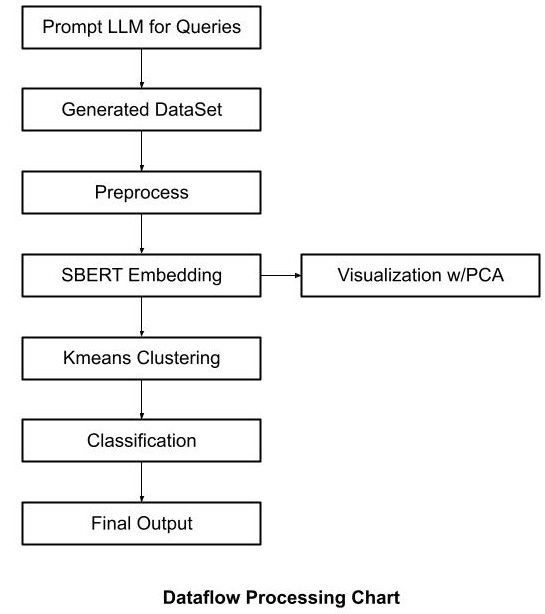
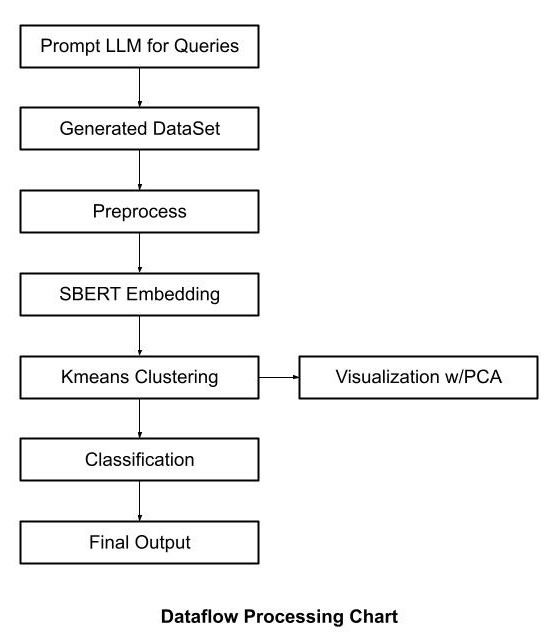
finalized blog

diff --git a/index.html b/index.html
@@ -30,22 +30,16 @@
         <div class="paragraph1">
             <h2>Introduction</h2>
             <p class="body1">
-               The purpose of the project is to take and classify several example queries belonging to different 
-               categories and group them by semantic similarity. The dataset of queries is generated by prompting Open AI 
-               for a list of questions grouped into several categories that various people are likely to ask an LLM for assistance 
-               or feedback with in matters of technology, travel, history, etc. The question categories are grouped together by vectors 
-               These questions are then represented as numerical vectors using a sentence embedding model, allowing us to analyze their semantic 
-               structure in high-dimensional space. By combining clustering and classification techniques, the system is able to organize queries 
-               meaningfully and assign appropriate category labels, even for previously unseen inputs.
-               
             </p>
-
+            This project aims to classify and group example queries by their semantic similarity across different categories. 
+            The dataset was created by prompting a large language model (LLM) to generate a variety of realistic, natural-language 
+            questions that users might ask about topics such as technology, travel, history, and more. Each query is tagged with a 
+            category label. These questions are then converted into high-dimensional numerical vectors using a sentence embedding model,
+            enabling analysis of their semantic relationships. By applying clustering and classification techniques to the embedded data, 
+            the system can organize queries into meaningful groups and accurately assign category labels - even for previously unseen inputs.
+            To achieve this, the system uses SBERT sentence embedding model to convert queries into vector form, applies k-means clustering to group 
+            semantically similar queries, and finally uses a multinomial logistic regression classifier to assign category labels to input queries.
             <p class = "body1">
-            The following diagram outlines the data flow of the project, beginning with query generation and ending with query classification. 
-               Each stage: embedding, clustering, and classification, builds on the previous to form a complete pipeline for semantic 
-               analysis of natural language questions. In the sections that follow each stage is explained in greater detail. This covers how the data is generated, 
-               how semantic embeddings are applied using SBERT, how clusters are formed to group similar queries, and how categories are predicted 
-               using a logistic regression classifier.
             </p>
             <img src="images/DataSciDataflow.jpg" alt="Dataflow Chart" class="image3">
         </div>
@@ -53,84 +47,87 @@
         <div class="paragraph1">
             <h2>Datasets</h2>
             <p class="body1">
-                To generate the main dataset used in the project, a custom prompt is sent to the Deepseek V3 model via the OpenRouter API. 
-                This prompt requests Deepseek to generate several hundred diverse, natural-language questions that a typical end user might 
-                ask a large language model. The questions are organized into generalized categories such as technology, travel, education, 
-                or history to simulate a realistic range of LLM use cases. The prompt also enforces a strict response format: each question 
-                must be returned as a JSON object with two keys—"Question" and "Category". This structure ensures consistency in downstream parsing and processing. 
+            To generate the main dataset used in the project, a custom prompt is sent to the Deepseek V3 model via the OpenRouter API. 
+            This prompt requests Deepseek to generate several hundred diverse, natural-language questions that a typical end user might 
+            ask a large language model. The questions are organized into generalized categories such as technology, travel, education, or
+            history to simulate a realistic range of LLM use cases. The prompt also enforces a strict response format: each question must 
+            be returned as a JSON object with two keys—"Question" and "Category". This structure ensures consistency in downstream parsing and processing.
             </p>
             <p class="body1">
-                The dataset generation is done in a separate code file before the embedding and clustering step. A prompt is loaded from a text 
-                file and modified to include the desired number of queries. Deepseek is prompted to return the questions in a Json format with 
-                both the question and category. The generate_queries() function then uses the Deepseek model to synthesize the data. Once a 
-                successful response is returned, the user is prompted to confirm it for correctness before the dataset is saved. 
-
+            The dataset generation is done in a separate code file before the embedding and clustering step. A prompt is loaded from a text file and 
+            modified to include the desired number of queries. Deepseek is prompted to return the questions in a JSON format with both the question and 
+            category. The generate_queries() function then uses the Deepseek model to synthesize the data. Once a successful response is returned, the user 
+            is prompted to confirm it for correctness before the dataset is saved.
             </p>
         </div>
 
         <div class="paragraph1">
             <h2>Embedding</h2>
             <p class="body1">
-                Embedding the queries is a necessary step in the processing of natural language data to assign numerical values to semantic material. 
-                These embeddings can then be used to further process, modify, or classify the natural language data. For the purposes of this project, 
-                we have chosen to use the Siamese Bidirectional Encoder Representations from Transformers (SBERT) model. This model is specifically 
-                designed to encode natural language data in a way which preserves semantic context/meaning within the sentence. SBERT was chosen as it 
-                is specialized for providing highly accurate semantic similarity scores when compared to competing models (e.g., BERT). Embedding the 
-                natural language data into matrices using SBERT preprocesses and prepares the data for the clustering process. 
+            Embedding the queries is a necessary step in the processing of natural language data to assign numerical values to semantic material. 
+            These embeddings can then be used to further process, modify, or classify the natural language data. For the purposes of this project,
+             we have chosen to use the Siamese Bidirectional Encoder Representations from Transformers (SBERT) model. This model is specifically 
+             designed to encode natural language data in a way which preserves semantic context/meaning within the sentence. SBERT was chosen as it 
+             is specialized for providing highly accurate semantic similarity scores when compared to competing models (e.g., BERT). Embedding the natural 
+             language data into matrices using SBERT preprocesses and prepares the data for the clustering process.
             </p>
         </div>
         
         <div class="paragraph1">
             <h2>Clustering</h2>
+
             <p class="body1">
-                Clustering uses the numerical embeddings provided by SBERT to group natural language data into semantically similar groupings called clusters. 
-                The goal of the clustering process is to preprocess the data for category classification and to establish which queries should be grouped 
-                together under the same categories. A k–means clustering algorithm was chosen for this use case as it is widely used for the purpose of 
-                grouping together semantically similar natural language data, is simple to implement, and works very quickly. The k-means clustering algorithm 
-                functions by initially placing a set number of cluster centroids in the vector space randomly, then assigning each of the data vectors to their
-                 nearest cluster centroids. The algorithm then shifts the centroids by calculating the mean of the data points which were assigned to each of
-                  the centroids. Finally, the process is repeated until no significant change occurs. This also means that the clustering algorithm is highly 
-                  dependent on the initial placement of the cluster centroids. 
+            Clustering uses the numerical embeddings provided by SBERT to group natural language data into semantically similar groupings called clusters. 
+            The goal of the clustering process is to preprocess the data for category classification and to establish which queries should be grouped together
+            under the same categories. A k–means clustering algorithm was chosen for this use case as it is widely used for the purpose of grouping together 
+            semantically similar natural language data, is simple to implement, and works very quickly. The k-means clustering algorithm functions by initially 
+            placing a set number of cluster centroids in the vector space randomly, then assigning each of the data vectors to their nearest cluster centroids.
+            The algorithm then shifts the centroids by calculating the mean of the data points which were assigned to each of the centroids. Finally, 
+            the process is repeated until no significant change occurs. This also means that the clustering algorithm is highly dependent on the initial
+            placement of the cluster centroids
             </p>
 
             <p class="body1">
-                To mitigate the disadvantage that comes with having a set number of clusters, a silhouette score is calculated for each of the results of the 
-                algorithm running on up to two times the number of categories provided in the dataset. The silhouette score measures how close each of the data
-                 points in the cluster is to the others as well as the separation between each point in the cluster to neighboring clusters. The model with the 
-                 highest silhouette score is picked as the ‘best’ and its centroids are used for the final classification to assign each cluster their corresponding 
-                 category labels.
+            A fundamental limitation of the k-means algorithm is that it requires pre-specifying the number of clusters k. In practical applications, especially 
+            when dealing with natural language data, we rarely know in advance exactly how many semantic groups the data should be divided into. Choosing an inappropriate
+            k value can lead to serious problems: too small k value results in different semantic concepts being incorrectly merged into the same cluster; too large k value
+            artificially splits data points that should belong to the same concept. To mitigate this disadvantage, a silhouette score is calculated for each of the results 
+            of the algorithm running on up to two times the number of categories provided in the dataset. The silhouette score measures how close each of the data points in the 
+            cluster is to the others as well as the separation between each point in the cluster to neighboring clusters. The model with the highest silhouette score is picked as 
+            the ‘best’ and its centroids are used for the final classification to assign each cluster their corresponding category labels.
             </p>
         </div>
 
         <div class="paragraph1">
             <h2>Classification</h2>
             <p class="body1">
-                After clustering the queries, the next step was to predict categories for new, unseen questions. A multinomial logistic regression model was chosen 
-                for this task using the same SBERT embeddings from the clustering step. This approach kept the pipeline simple, quick, and reproducible. It suited the 
-                project’s needs due to its fast training on CPU, easy to understand coefficients, and proven effectiveness, often performing as well as more complex neural networks.
-
+                After clustering the queries, the next step was to predict categories for new, unseen questions. A multinomial logistic regression model was chosen for this task using the same SBERT embeddings from the clustering step. This approach kept the pipeline simple, quick, and reproducible. It suited the project’s needs due to its fast training on CPU, easy to understand coefficients, and proven effectiveness, often performing as well as more complex neural networks.
             </p>
 
             <p class="body1">
-                Before training, queries retained their original LLM-generated labels, resulting in clean and L2-normalized vectors across the fourteen categories. A grid search 
-                optimized two hyperparameters, the inverse regularization parameter C (tested from 0.001 to 1000) and class weighting (none or balanced). Stratified cross-validation 
-                focusing on the macro F1 score selected a C value of 1.0 without class balancing. The final model achieved an impressive accuracy of 0.958 ± 0.023, with a macro precision of 0.967 ± 0.016, 
-                a macro recall of 0.958 ± 0.025, and a macro F1 score of 0.958 ± 0.024. Most errors occurred between similar categories, such as Creative Writing and Content Creation, or Math/Logic and Philosophy. 
-                When tested on a separate test dataset, the model maintained strong performance with an accuracy of 0.955, confirming its ability to generalize to unseen queries.
+                Before training, queries retained their original LLM-generated labels, resulting in clean and L2-normalized vectors. A grid search optimized two hyperparameters, the inverse regularization parameter C (tested from 0.001 to 1000) and class weighting (none or balanced). Stratified cross-validation focusing on the macro F1 score selected a C value of 1.0 without class balancing. The final model achieved an impressive accuracy of 0.958 ± 0.023, with a macro precision of 0.967 ± 0.016, a macro recall of 0.958 ± 0.025, and a macro F1 score of 0.958 ± 0.024. Most errors occurred between similar categories, such as Creative Writing and Content Creation, or Math/Logic and Philosophy. When tested on a separate test dataset, the model maintained strong performance with an accuracy of 0.955, confirming its ability to generalize to unseen queries.
             </p>
 
             <p class="body1">
-                Although the linear model may struggle with subtle, complex boundaries between conceptually related categories, its simplicity, speed, and transparency make it ideal for the project's current scope.
-                 The confusion matrix analysis revealed near-perfect classification for several categories, including Data Analysis, Education, and Health/Wellness. Future improvements could involve testing kernel 
-                 SVMs or adding more data for categories showing the most confusion.
+            Although the linear model may struggle with subtle, complex boundaries between conceptually related categories, its simplicity, speed, and transparency make it ideal for the project's current scope. The confusion matrix analysis revealed near-perfect classification for several categories, including Data Analysis, Education, and Health/Wellness. Future improvements could involve testing kernel SVMs or adding more data for categories showing the most confusion.
             </p>
 
         </div>
 
         <div class="paragraph1">
+            <h2>Why This Pipeline Works</h2>
+            <p class="body1">
+            K-means clustering assumes that data points lie in a continuous vector space and that meaningful groupings can be formed by minimizing intra-cluster Euclidean distance. SBERT generates fixed-size, dense, real-valued sentence embeddings, satisfying this requirement by mapping semantically similar sentences to nearby points in high-dimensional space.
+            While SBERT is trained with cosine similarity objectives, cosine and Euclidean distances become equivalent once vectors are L2-normalized. Normalizing SBERT embeddings thus makes Euclidean distance a valid proxy for semantic similarity, aligning them with the assumptions of k-means.
+            Although k-means works best on spherical, equally sized clusters, SBERT embeddings often form locally compact and roughly isotropic regions. These natural structures make them reasonably well-suited for clustering with k-means.
+            In practice, this alignment enables k-means to group semantically related queries based on SBERT embeddings, making their combination a practical strategy for unsupervised semantic clustering.
+            </p>
+        </div>
+
+        <div class="paragraph1">
             <h2>Conclusion</h2>
             <p class="body1">
-
+            The Query Classifier project was successful in exploring prompt generation using a large language model API, embedding queries, clustering queries by semantic similarity, and in using the cluster centers to classify each cluster with a category label. The project explored dataset generation using a large language model (LLM) and was able to create a dataset of questions someone might ask an LLM for assistance or feedback. This dataset was used to test the efficacy of classifying queries into different groups with category labels. The dataset was first embedded using SBERT to transform into a numerical representation, which could be used as the input to a k-means clustering algorithm to group similar queries. The dataset queries and category labels were then used to train a logistic regression classifier that achieved strong performance metrics, with cross-validation showing 95.8% accuracy (± 2.3%) and an F1 score of 0.958 (± 0.024). When tested on unseen data, the model maintained robust performance with 95.5% accuracy, demonstrating excellent generalization capabilities. Finally, the cluster centers were fed into the classifier to return category labels for each cluster of queries, effectively organizing the diverse range of user questions into meaningful semantic categories.
             </p>
         </div>
 
